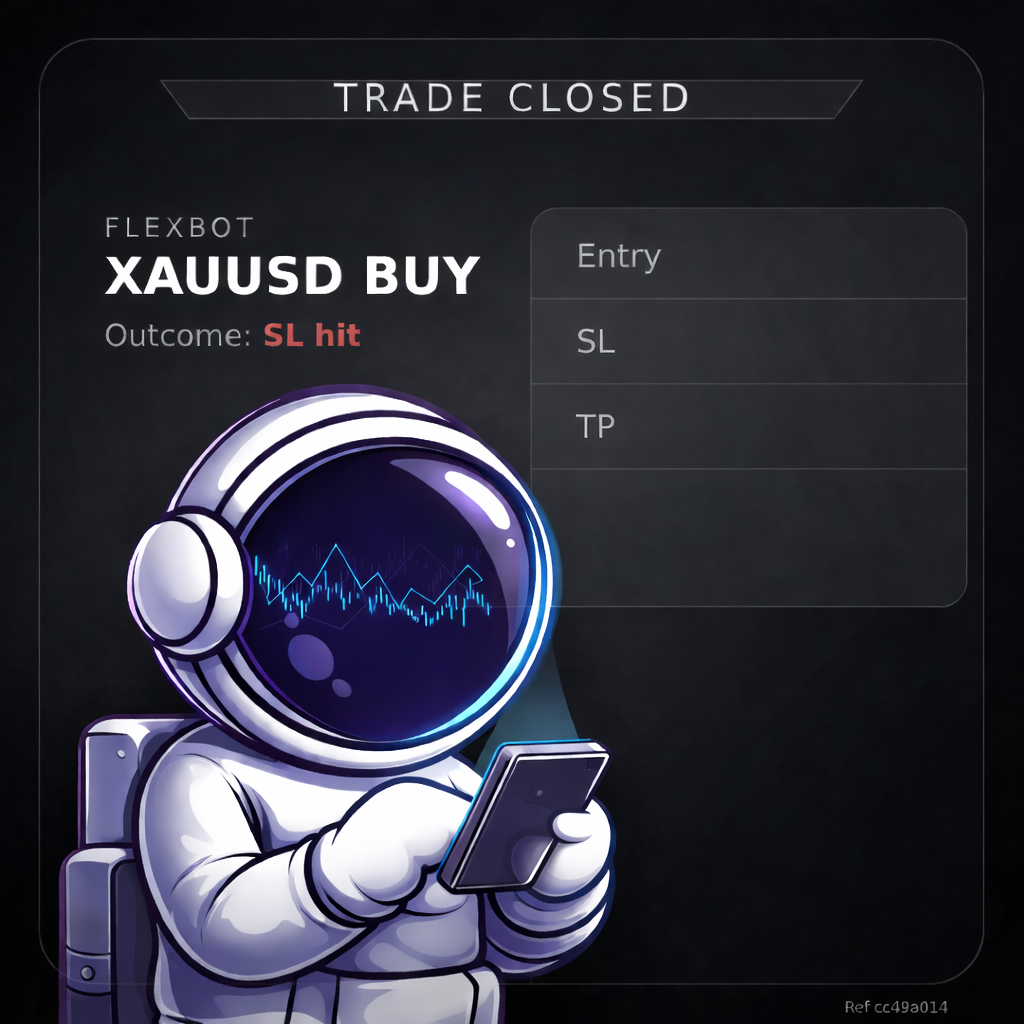
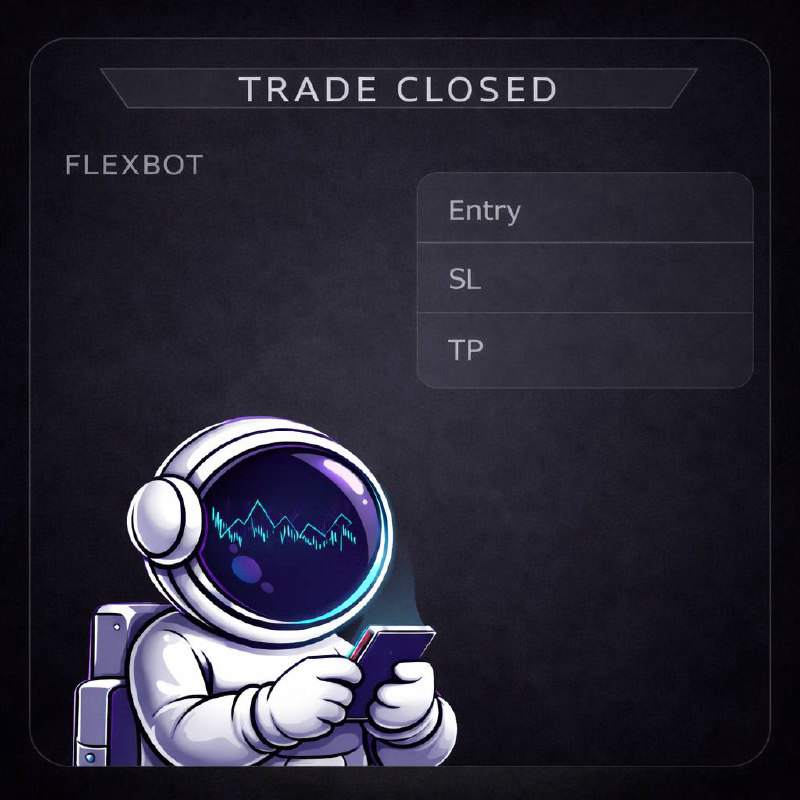
Update loss template background

diff --git a/server.js b/server.js
@@ -4348,11 +4348,18 @@ function createClosedCardSvgV3({ id, symbol, direction, outcome, result, entry, 
     const prettyNumT = Number.isFinite(rawNumT) ? Math.abs(rawNumT).toFixed(2) : null;
     const lossText = prettyNumT ? `-${prettyNumT} USD` : String(resultStr);
 
-    // IMPORTANT: template already contains FLEXBOT / XAUUSD BUY / Outcome text.
-    // So we do NOT redraw them (avoids double text like "XAUUSDBUYY").
+    const symdir = `${sym} ${dir}`;
+
+    // Clean background: draw the dynamic title + outcome + values on top.
     return `<?xml version="1.0" encoding="UTF-8"?>
 <svg xmlns="http://www.w3.org/2000/svg" width="${W}" height="${H}" viewBox="0 0 ${W} ${H}">
   <image x="0" y="0" width="${W}" height="${H}" href="${lossTplDataUri}"/>
+
+  <!-- Symbol + direction -->
+  <text x="110" y="320" font-family="Inter,Segoe UI,Arial" font-size="54" fill="#fff" font-weight="900">${symdir}</text>
+
+  <!-- Outcome (20px up) -->
+  <text x="110" y="375" font-family="Inter,Segoe UI,Arial" font-size="32" fill="rgba(255,255,255,0.72)">Outcome: <tspan fill="${outcomeColor}" font-weight="900">${outcomeStr}</tspan></text>
 
   <!-- Dynamic panel values (right) -->
   <text x="${panelValX}" y="294" text-anchor="end" font-family="Inter,Segoe UI,Arial" font-size="34" fill="#fff" font-weight="900">${entryStr}</text>
@@ -4361,7 +4368,6 @@ function createClosedCardSvgV3({ id, symbol, direction, outcome, result, entry, 
 
   <!-- PnL (loss) under TP -->
   <text x="930" y="560" text-anchor="end" font-family="Inter,Segoe UI,Arial" font-size="40" fill="#ff4d4d" font-weight="1000" stroke="rgba(0,0,0,0.55)" stroke-width="1.8" paint-order="stroke" style="font-variant-numeric: tabular-nums;">${lossText}</text>
-
 </svg>`;
   }
 

diff --git a/tools/convert_image_to_png.js b/tools/convert_image_to_png.js
@@ -1,0 +1,53 @@
+/*
+Convert a raster image (JPG/PNG) to PNG (RGBA).
+Usage:
+  node tools/convert_image_to_png.js <input> <output>
+
+No resizing; keeps original dimensions.
+*/
+
+const fs = require("fs");
+const path = require("path");
+const jpeg = require("jpeg-js");
+const { PNG } = require("pngjs");
+
+const inPath = process.argv[2];
+const outPath = process.argv[3];
+
+if (!inPath || !outPath) {
+  console.error("Usage: node tools/convert_image_to_png.js <input> <output>");
+  process.exit(1);
+}
+
+const ext = path.extname(inPath).toLowerCase();
+const buf = fs.readFileSync(inPath);
+
+let width, height, data;
+
+if (ext === ".jpg" || ext === ".jpeg") {
+  const decoded = jpeg.decode(buf, { useTArray: true });
+  width = decoded.width;
+  height = decoded.height;
+  data = decoded.data; // RGBA
+} else if (ext === ".png") {
+  const decoded = PNG.sync.read(buf);
+  width = decoded.width;
+  height = decoded.height;
+  data = decoded.data; // RGBA
+} else {
+  console.error("Unsupported input type:", ext);
+  process.exit(1);
+}
+
+const png = new PNG({ width, height });
+// Ensure buffer sizes match
+if (data.length !== png.data.length) {
+  console.error("Unexpected pixel buffer size", { in: data.length, out: png.data.length, width, height });
+  process.exit(1);
+}
+
+png.data.set(data);
+const outBuf = PNG.sync.write(png);
+fs.mkdirSync(path.dirname(outPath), { recursive: true });
+fs.writeFileSync(outPath, outBuf);
+console.log(outPath);
